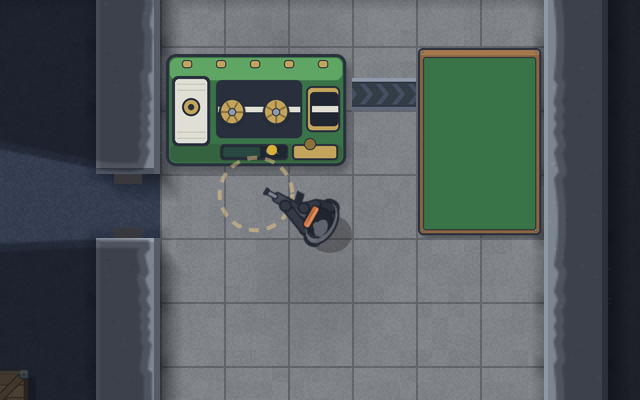
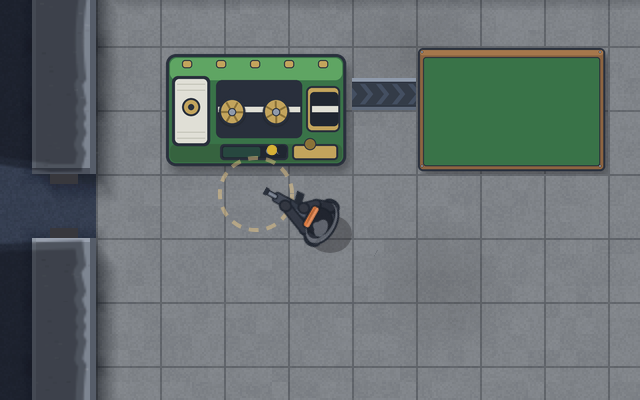
Notenbank N3c: Doku und Raumbild
Claude-Session: https://claude.ai/code/session_01M9qApYsWC5h3mE3xapS5SZ

diff --git a/tools/nb-bilder.js b/tools/nb-bilder.js
@@ -9,16 +9,16 @@ const { launch, openGame } = require('../tests/lib');
   const env = await launch(), page = await openGame(env);
   const scenes = {
     'bohrer-aus': '', 'bohrer-halb': 'D.nbd().st=1;D.nbd().p=.5;', 'bohrer-steht': 'D.nbd().st=2;D.nbd().c=1;D.nbd().p=.4;', 'bohrer-loch': 'D.nbHole(true);D.nbd().st=3;D.nbd().p=1;',
-    'presse-aus': '', 'presse-laeuft': 'D.nbp().st=1;D.nbp().paper=.7;D.nbp().n=7;D.nbp().m=0b000111;', 'presse-voll': 'D.nbp().st=6;D.nbp().paper=.4;D.nbp().n=20;D.nbp().m=63;D.nbp().dv=45000;', 'abgabe': 'D.nbp().dv=60000;'
+    'presse-aus': '', 'presse-raum': 'D.nbp().st=1;D.nbp().paper=.6;D.nbp().n=3;D.nbp().m=0b000101;D.nbp().dv=15000;', 'presse-laeuft': 'D.nbp().st=1;D.nbp().paper=.7;D.nbp().n=7;D.nbp().m=0b000111;', 'presse-voll': 'D.nbp().st=6;D.nbp().paper=.4;D.nbp().n=20;D.nbp().m=63;D.nbp().dv=45000;', 'abgabe': 'D.nbp().dv=60000;'
   };
   const pick = Object.keys(scenes).filter(k => which === 'alle' || k.startsWith(which) || (which === 'presse' && k === 'abgabe'));
   for (const k of pick) {
-    const focus = k.startsWith('presse') ? 'press' : k === 'abgabe' ? 'dep' : 'rig';
+    const focus = k === 'presse-raum' ? 'raum' : k.startsWith('presse') ? 'press' : k === 'abgabe' ? 'dep' : 'rig';
     await page.mouse.move(3, 3);
     const r = await page.evaluate(([code, focus]) => {
       const D = __dbg, T = 32; D.sessReset(); D.setScenario('nb'); D.setSeedMode('random'); D.setLage([]); D.buildSeed(5); D.CFG.policeAt = 1e6; D.CFG.policeForced = 1e6; D.CFG.nb.alarmAt = 1e6; D.reset();
       const g = D.get(), me = g.me; g.npcs.splice(0); D.startHeist(true, me); const L = D.LAY().nb; for (let i = 0; i < 30 * 22; i++) { me.hp = 1e9; D.update(1 / 30); }
-      const c = focus === 'rig' ? [(L.rig[0] + 1) * T, (L.rig[1] + 1.5) * T] : focus === 'press' ? [(L.press[0] + 2.5) * T, (L.press[1] + 1) * T] : [21 * T, 3.5 * T];
+      const c = focus === 'raum' ? [22 * T, 9 * T] : focus === 'rig' ? [(L.rig[0] + 1) * T, (L.rig[1] + 1.5) * T] : focus === 'press' ? [(L.press[0] + 2.5) * T, (L.press[1] + 1) * T] : [21 * T, 3.5 * T];
       me.x = c[0]; me.y = c[1] + 56; me.x = c[0]; me.y = c[1] + 56; for (let i = 0; i < 45; i++) { me.hp = 1e9; me.x = c[0]; me.y = c[1] + 56; D.update(1 / 30); } eval(code); const cv0 = document.querySelector('canvas'); for (const tg of [cv0, window, document]) tg.dispatchEvent(new MouseEvent('mousemove', { clientX: 1, clientY: 1, bubbles: true })); D.update(.001); D.draw(); D.draw();
       const cv = document.querySelector('canvas'), o = document.createElement('canvas'); o.width = 640; o.height = 400; const x = o.getContext('2d'); const sx = cv.width / 2 - 320, sy = cv.height / 2 - 200 - 22;
       x.drawImage(cv, sx, sy, 640, 400, 0, 0, 640, 400); return o.toDataURL('image/png');

diff --git a/docs/szenarien.md b/docs/szenarien.md
@@ -227,7 +227,7 @@ Gebaut ist die Karte mit dem Gerüst: Szenario `nb` (`LAY.nb`, Kürzel `n`), fre
 - **Karte** (`nbLayout` in js/maps.js, handgebaut, Gebäude 28x29 in einer Welt von 52x48): Ringmodell nach Tills Spieltest (1. November 2026, "das Gebäude muss an mehreren Engstellen haltbar sein"). Vier Verteidigungsringe von der Straße im Süden nach innen, die Polizei muss sie der Reihe nach aufbrechen. Jede Engstelle ist die **einzige** Verbindung zum Ring dahinter (Test 150, Flutfüllung mit der Engstelle als Wand), ein bis zwei Kacheln breit, mit Barrikade haltbar, und vom Ring dahinter mit Deckung (Säulen, Kisten, Tresen) zu verteidigen:
   - **Ring 1 Vorhalle** (y24..27, Marmor, Säulenfront, Schriftzug und Wappen auf dem Boden, Freitreppe vor der Haupttür): Haupttür (13..14,28), Seitentür im Osten (27,25..26), Hintertür `L` im Westen (0,25), Fenster. Zugänge von außen gibt es nur hier und in Ring 2 (Fenster). Engstelle zu Ring 2: die **Schleuse** (13..14,23), ein Gitter.
   - **Ring 2 Kassenhalle** (y19..22, Schalterbereich mit Theke y16..18, Büro und Sicherheitsraum im Westen): Fenster, keine weiteren Türen nach außen. Engstelle zu Ring 3: die **Panzertür** (15..16,15).
-  - **Ring 3 innerer Bereich** (y7..14): Tresorraum im Westen (Tresortür bei (10,9..10)), Verteiler in der Mitte, Pressenraum im Osten (Tür (20,10)). Engstelle zu Ring 4: die **Kellertreppe** (16,6).
+  - **Ring 3 innerer Bereich** (y7..14): Tresorraum im Westen (Tresortür bei (10,9..10)), Verteiler in der Mitte (x11..16), Pressenraum im Osten (x18..26, Tür (17,10)). Engstelle zu Ring 4: die **Kellertreppe** (16,6).
   - **Ring 4 Keller** (x14..24, y1..5) mit dem Tunnelbohrer (2x2, `LAY.nb.rig`). Bei 100 % verschwindet er, das Loch im Boden (`LAY.nb.zone`, Ring 4) ist der Ausstieg und die Fluchtzone (seit N2b, Ticket 65, keine Tunnelstrecke, kein Schacht, keine Tür).
   `LAY.nb.gates` listet die Engstellen (`haupt`, `seite`, `hinten`, `schleuse`, `panzer`, `treppe`), der Test prüft sie. Notenpresse: eine solide Maschine (3x2 Kacheln) im Pressenraum, einer von drei Plätzen (`pcand`) aus dem Seed, mit Schild "Notenpresse (bald)", E zeigt "Noch nicht in Betrieb" (Item `nbp`, ändert nichts). `validateMap` besteht, nur die Warnung "Weg Tresor zu Ausgang" (37 statt 8 bis 28 Schritte) bleibt bewusst: die Ringe sind die Idee.
 - **Varianten** über eigene `mulberry32`-Ströme: Wachenrouten, Auswahl und Lage der Kameras (`CFG.nb.cams` von acht), Tageszeit und Thema, Code, Platz der Presse. Lage von Tresor, Ringen und Loch sind fest.
@@ -261,8 +261,9 @@ Die Notenpresse im Pressenraum (Ring 3) druckt nach dem Alarm Geld, solange sie 
 - **Presse** (`nbp` in index.html, solide Maschine 3x2 bei `LAY.nb.press`): Anwerfen mit E halten (`startPT` 2 s, nur nach dem Alarm). Sie druckt **endlos**, solange sie läuft und betreut wird, alle `printT` (8 s) ein Bündel in die **Ablage** an der Ausgabe (`slots` 6 Plätze, Maske `nbp.m`, feste Objekte `nbb`). Ist die Ablage voll, hält sie an ("Ablage voll") und läuft von selbst weiter, sobald ein Bündel weg ist. Eine feste Kappe gibt es nicht, begrenzt wird nur durch Tasche, Betreuung, Wege und Polizei. Ein Bündel hat den Wert `bundleV` (5.000) und braucht `bundleU` (.5) Platz (`fit`, wie jede Beute, Einpacken `takeT` .8 s). Zustände `st`: 0 aus, 1 läuft, 2 Papier leer, 3 Stau, 4 unbetreut, 6 Ablage voll. Ein Papiervorrat reicht `paperT` (60 s), Papier nachlegen (E, `paperRT`) ist erst unter 60 % möglich. Der nächste Papierstau kommt nach `jamMin` (4) bis `jamMin+jamVar` (9) gedruckten Bündeln (Folge aus dem Seed, nie zwei kurz hintereinander), Stau beheben mit E (`fixT`). Betreuung: ein lebender Spieler näher als `careR` (150 px), sonst sinkt `care` in `careT` (50 s) auf 0 und sie steht, Wiederanwerfen mit E. Anwerfen, Papier und Stau sind je ein eigenes Objekt (`nbp0`, `nbp1`, `nbp2`).
 - **Druckstufe** (Tills `nb-druck`: wer länger bleibt, verdient mehr, aber die Polizei wird härter): Je `escN` (5) gedruckte Bündel steigt die Stufe (`nbLvl`). Je Stufe gibt es `escWave` (1) Beamten mehr je Welle, `maxEn` steigt um `escMax` (1) bis `maxEnCap` (24) und die Wellenpause wird um `escGap` (6 %) kürzer bis zum Faktor `escGapMin` (.5). Das gilt nur in der Notenbank-Spawnlogik (`spawnWave`, `waveGap`, `nbMaxEn`), nicht im Fahndungslevel. Das HUD zeigt die Stufe, eine Meldung kommt bei jeder neuen Stufe.
 - **Abgabe** (`nbdep`, im Keller rechts neben dem Bohrer, grüne Platte "ABGABE"): E halten (`depT` 1,5 s) schreibt die getragene Beute sofort zu `secured` (und zu `st.sec`), Tasche leer, der Spieler bleibt im Spiel. Abgegebene Beute zählt auch, wenn der Träger danach fällt oder das Team den Auftrag verliert (Festlegung des Leitstands, Till darf widersprechen). Die Flucht bleibt das Loch aus N2b. Das Loch ist daneben die zweite Stelle, an der Beute gesichert wird.
-- **Optik (N3b, Tills Spieltest test-68):** Presse, Förderband, Ausgabetisch und Abgabetisch sind Sprites im Stil der übrigen Gegenstände (`props2.png`, Zeilen ab y=64 und 192, `tools/gen_nb_sprites.py`): grünes Gehäuse mit Messing, Papierrolle (wird dunkler, wenn das Papier verbraucht ist), zwei Walzen mit drei Phasen, Papierbahn mit laufenden Marken, Display und Lampen, ein Förderband (Chevrons laufen beim Drucken), das jedes Bündel sichtbar vom Ausgabeschlitz auf den Ausgabetisch fährt. Auf dem Tisch (2x3 Kacheln) liegen die sechs Ablageplätze, die Bündel sind das Geldbündel-Sprite aus dem Tresor (32x32 mit Schatten). Die Abgabe ist ein Tisch (2x1 Kacheln im Keller bei `LAY.nb.dep`), auf dem die abgegebenen Bündel sichtbar gestapelt werden (`nbp.dv` durch `bundleV`, bis 10). Alle Maschinen und Tische stehen auf der Kachel `N` (solide, ohne Möbel und zerlegbares Material darunter). Presse im Pressenraum nun links ausgerichtet (Plätze `pcand` (21,8), (21,11), (21,12)), rechts davon Band (Spalte 24) und Tisch (Spalten 25 und 26). HUD: zweite Zeile mit Zustand und Stufe. Bilder: `docs/bilder/`.
+- **Optik (N3b, Tills Spieltest test-68):** Presse, Förderband, Ausgabetisch und Abgabetisch sind Sprites im Stil der übrigen Gegenstände (`props2.png`, Zeilen ab y=64 und 192, `tools/gen_nb_sprites.py`): grünes Gehäuse mit Messing, Papierrolle (wird dunkler, wenn das Papier verbraucht ist), zwei Walzen mit drei Phasen, Papierbahn mit laufenden Marken, Display und Lampen, ein Förderband (Chevrons laufen beim Drucken), das jedes Bündel sichtbar vom Ausgabeschlitz auf den Ausgabetisch fährt. Auf dem Tisch (2x3 Kacheln) liegen die sechs Ablageplätze, die Bündel sind das Geldbündel-Sprite aus dem Tresor (32x32 mit Schatten). Die Abgabe ist ein Tisch (2x1 Kacheln im Keller bei `LAY.nb.dep`), auf dem die abgegebenen Bündel sichtbar gestapelt werden (`nbp.dv` durch `bundleV`, bis 10). Alle Maschinen und Tische stehen auf der Kachel `N` (solide, ohne Möbel und zerlegbares Material darunter). Presse im Pressenraum (Plätze `pcand` (19,8), (19,10), (19,12)), rechts davon das Band (Spalte 22) und der Ausgabetisch (3x2 Kacheln, Spalten 23 bis 25, die sechs Ablageplätze liegen als 3x2 darauf). HUD: zweite Zeile mit Zustand und Stufe. Bilder: `docs/bilder/`.
 - **Startwerte für N5:** alle Zahlen der Presse und der Druckstufe sind Startwerte (Ablage 6, Druck alle 8 s, Stufe je 5 Bündel, +1 Beamter und +1 `maxEn` je Stufe, 6 % kürzere Wellenpause). N5 misst, ob Beute und Druck im Gleichgewicht sind.
+- **Bedienbarkeit (N3c, Tills test-68 "ich konnte nicht um die Presse herum gehen"):** Der Pressenraum ist breiter (Wand zum Verteiler bei x=17, Tür (17,10), Raum x18..26), Presse, Band und Tisch stehen in einer Zeile, um die ein freier Gang von einer Kachel an allen vier Seiten bleibt (West: Vorraum mit der Tür, Ost, Nord, Süd), nichts steht an Wand oder Tür. Der Ausgabetisch ist 3x2, damit jeder Ablageplatz von Nord oder Süd erreichbar ist. Der Abgabetisch im Keller ist ebenfalls frei umgehbar. Test `153-notenbank-bedienung` prüft über 24 Seeds (alle drei Plätze der Presse): Gang, Tür, jeder Bedienpunkt (Anwerfen, Papier, Stau, Ablage, Abgabe, Bohrer) hat eine vom Eingang erreichbare Kachel in E-Reichweite, Nord- und Südgang hängen zusammen. Die Notenbank wird nicht gedreht (kein `turnLayout`), die Lage der Straße ist fest.
 - **Coop:** Schnappschussfeld `nbp` `[Zustand, Papier, gedruckt, care, Maske der Ablage]`, die Ablage läuft über die Maske `m`. `VER` 67.
 - **Tests:** `152-notenbank-presse` (Anwerfen, Betreuung und Stillstand, Papier und Stau, endloser Druck mit Ablage, Druckstufe, Stau-Abstände, Bündel und Abgabe, Coop mit E auf dem Client).
 
